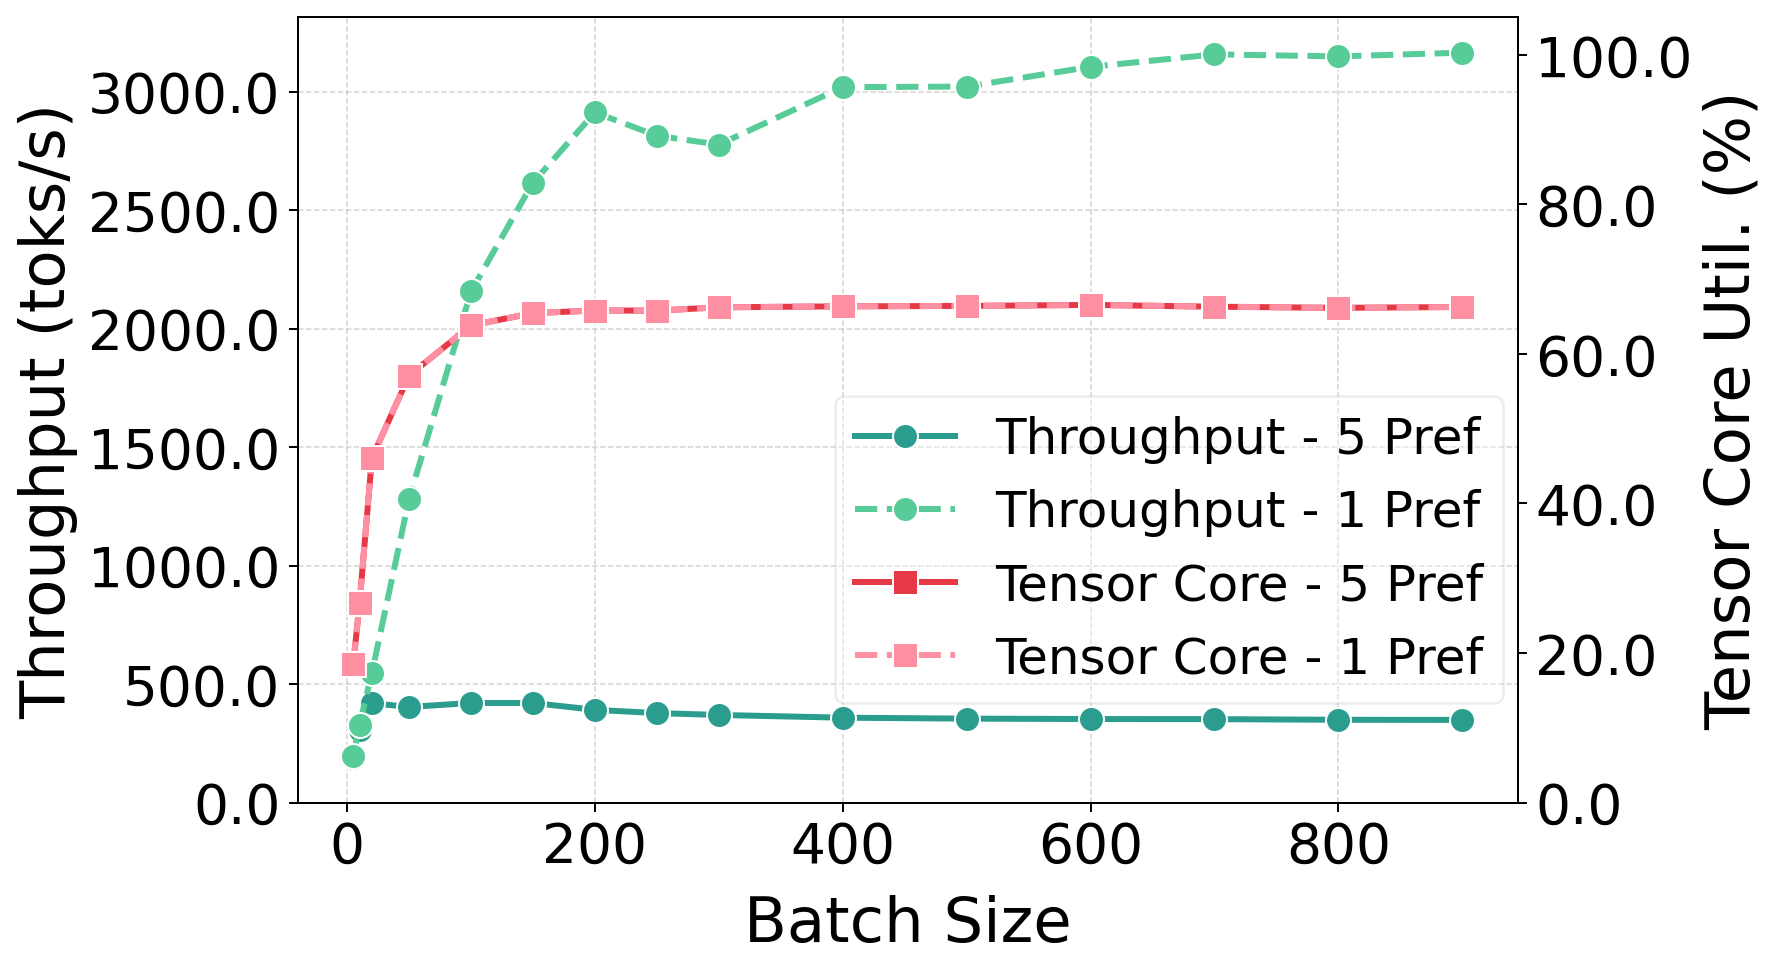
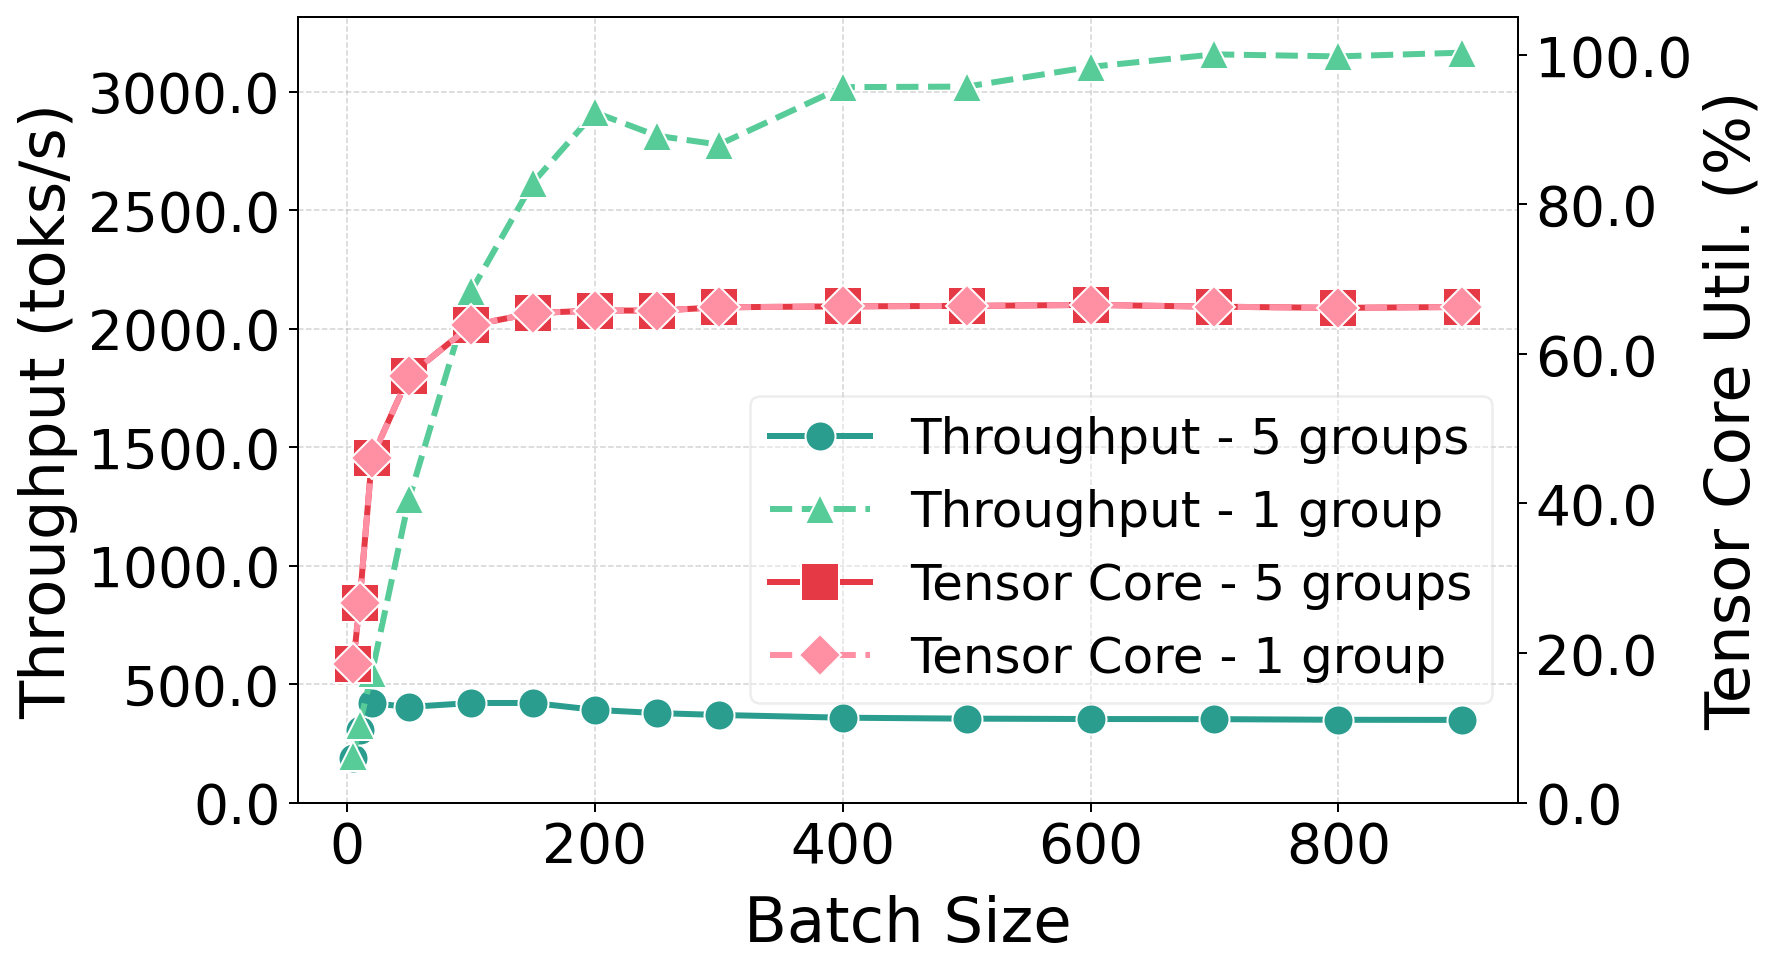
homo

diff --git a/code/vllm/batch_size_logs/plot_both.py b/code/vllm/batch_size_logs/plot_both.py
@@ -1,40 +1,3 @@
-"""
-plot_batch_size_merged.py
-=========================
-Reads dcgmi_*.log and vllm_*.log files from TWO directories:
-  - LOG_DIR_HETERO  (original / heterogeneous batch)
-  - LOG_DIR_HOMO    (homogeneous batch)
-
-Produces two publication-quality plots, each with 4 lines:
-
-  Plot 1  –  Throughput (toks/s)  [left, greens]  &  Tensor Core Util (%)  [right, reds]
-               · Hetero throughput  : solid green   (---)
-               · Homo   throughput  : dashed green  (- -)
-               · Hetero tensor util : solid red
-               · Homo   tensor util : dashed red
-
-  Plot 2  –  SM Activity (%)  [left, blues]  &  SM Occupancy (%)  [right, oranges]
-               · Hetero SM Activity  : solid blue
-               · Homo   SM Activity  : dashed blue
-               · Hetero SM Occupancy : solid orange
-               · Homo   SM Occupancy : dashed orange
-
-X-axis for both: batch size (extracted from filenames).
-
-JSON Cache:
-  Parsed data is saved to CACHE_FILE (default: data_cache.json).
-  On subsequent runs, values are loaded from the cache and log files are
-  only re-read for batch sizes / fields that are missing from the cache.
-
-File-name patterns expected:
-  dcgmi : dcgmi_vllm_..._batch-<B>_...
-  vllm  : vllm_<policy>_batch_size<B>_...
-
-Usage:
-  Edit LOG_DIR_HETERO / LOG_DIR_HOMO below, then:
-  python plot_batch_size_merged.py
-"""
-
 import os
 import re
 import json
@@ -67,8 +30,13 @@ C_SMACT_HOMO    = "#90C2FF"
 C_SMOCC_HETERO  = "#FB8500"
 C_SMOCC_HOMO    = "#FFD166"
 
-MARKER_LEFT  = "o"
-MARKER_RIGHT = "s"
+# Hetero and homo each get distinct marker shapes.
+# Left-axis metrics use the first marker, right-axis use the second.
+MARKER_HETERO_LEFT  = "o"   # hetero, left-axis  (throughput / SM Activity)
+MARKER_HETERO_RIGHT = "s"   # hetero, right-axis (tensor core / SM Occupancy)
+MARKER_HOMO_LEFT    = "^"   # homo,   left-axis
+MARKER_HOMO_RIGHT   = "D"   # homo,   right-axis
+
 LW = 2.4
 MS = 10
 
@@ -81,13 +49,6 @@ ALL_FIELDS = ("smact", "smocc", "tenso", "drama", "throughput")
 # ═════════════════════════════════════════════════════════════════════════════
 
 def load_cache(cache_path: str) -> dict:
-    """
-    Load cache from disk.  Returns a dict shaped:
-      { "hetero": { "<batch_size>": { field: value, ... }, ... },
-        "homo":   { "<batch_size>": { field: value, ... }, ... } }
-    Batch-size keys are stored as strings in JSON; we keep them as strings
-    here and convert to int only when building the data dicts.
-    """
     if os.path.isfile(cache_path):
         with open(cache_path) as fh:
             try:
@@ -107,7 +68,6 @@ def save_cache(cache: dict, cache_path: str) -> None:
 
 
 def _cache_has_all_fields(entry: dict) -> bool:
-    """Return True if every field in ALL_FIELDS is present and not None/NaN."""
     for f in ALL_FIELDS:
         val = entry.get(f)
         if val is None:
@@ -176,31 +136,16 @@ def collect_data(log_dir: str,
                  cache_section: dict,
                  throughput_cap=None,
                  label: str = "") -> dict:
-    """
-    Build a {batch_size: {field: value}} dict.
-
-    Strategy
-    --------
-    1. For every batch size already in *cache_section* that has ALL fields
-       present, skip reading log files and use the cached values directly.
-    2. For batch sizes (or fields) not yet cached, parse the relevant log
-       files and add the results to *cache_section* (mutates it in-place so
-       the caller can persist the updated cache).
-    """
-
-    # Accumulator for raw values from log files (needed when cache is partial)
     raw: dict = defaultdict(lambda: {
         "smact": [], "smocc": [], "tenso": [], "drama": [], "throughput": None
     })
 
-    # Determine which batch sizes we can skip (fully cached)
     cached_bs = set()
     for bs_str, entry in cache_section.items():
         if _cache_has_all_fields(entry):
             cached_bs.add(int(bs_str))
             print(f"[{label}/CACHE]  batch={int(bs_str):>4}  (all fields cached – skipping logs)")
 
-    # ── Parse log files only for uncached batch sizes ─────────────────────
     for fname in sorted(os.listdir(log_dir)):
         fpath = os.path.join(log_dir, fname)
 
@@ -210,7 +155,7 @@ def collect_data(log_dir: str,
                 print(f"[SKIP] cannot parse batch size: {fname}")
                 continue
             if bs in cached_bs:
-                continue          # already have it
+                continue
             print(f"[{label}/DCGMI]  batch={bs:>4}  ←  {fname}")
             gpu_stats = read_dcgmi(fpath)
             for key in ("smact", "smocc", "tenso", "drama"):
@@ -224,16 +169,14 @@ def collect_data(log_dir: str,
                 print(f"[SKIP] cannot parse batch size: {fname}")
                 continue
             if bs in cached_bs:
-                continue          # already have it
+                continue
             tput = read_throughput_from_vllm_log(fpath)
             print(f"[{label}/VLLM ]  batch={bs:>4}  throughput={tput}  ←  {fname}")
             if tput is not None:
                 raw[bs]["throughput"] = tput
 
-    # ── Merge: cached entries + freshly parsed entries ────────────────────
     result = {}
 
-    # 3a. Entries that came fully from cache
     for bs_str, entry in cache_section.items():
         bs = int(bs_str)
         if bs in cached_bs:
@@ -248,7 +191,6 @@ def collect_data(log_dir: str,
                 "throughput": tput,
             }
 
-    # 3b. Entries freshly parsed from log files
     for bs, rec in raw.items():
         tput = rec["throughput"]
         if tput is not None and throughput_cap is not None:
@@ -267,7 +209,6 @@ def collect_data(log_dir: str,
             "throughput": tput,
         }
 
-        # Write back to cache section (NaN → None for JSON serialisability)
         def _json_safe(v):
             return None if (isinstance(v, float) and np.isnan(v)) else v
 
@@ -287,10 +228,6 @@ def collect_data(log_dir: str,
 # ═════════════════════════════════════════════════════════════════════════════
 
 def apply_tenso_fallback(hetero: dict, homo: dict) -> None:
-    """
-    If one side is missing a 'tenso' value for a given batch size, fill it
-    in from the other side.  Mutates both dicts in-place and prints a notice.
-    """
     all_bs = set(hetero.keys()) | set(homo.keys())
     for bs in sorted(all_bs):
         h_val = hetero.get(bs, {}).get("tenso")
@@ -337,7 +274,7 @@ def _finish(fig, ax_l, ax_r, xlabel, ylabel_l, ylabel_r, outpath, legend_loc="be
         fontsize=20,
         framealpha=0.35,
         loc="upper left",
-        bbox_to_anchor=(0.42, 0.55)
+        bbox_to_anchor=(0.35, 0.55)
     )
 
     plt.tight_layout()
@@ -363,28 +300,28 @@ def _xy(data: dict, key: str):
 def plot_throughput_tensor(hetero: dict, homo: dict, out_dir: str) -> None:
     fig, ax_l, ax_r = _base_fig()
 
-    kw_base = dict(linewidth=LW, markersize=MS,
+    kw_base = dict(linewidth=LW,
                    markeredgecolor="white", markeredgewidth=0.8)
 
     xs, ys = _xy(hetero, "throughput")
-    ax_l.plot(xs, ys, color=C_TPUT_HETERO, marker=MARKER_LEFT,
-              linestyle="-",  label="Throughput - 5 Pref", **kw_base)
+    ax_l.plot(xs, ys, color=C_TPUT_HETERO, marker=MARKER_HETERO_LEFT,
+              linestyle="-",  label="Throughput - 5 groups", **kw_base, markersize=12)
 
     xs, ys = _xy(homo, "throughput")
-    ax_l.plot(xs, ys, color=C_TPUT_HOMO,   marker=MARKER_LEFT,
-              linestyle="--", label="Throughput - 1 Pref",   **kw_base)
+    ax_l.plot(xs, ys, color=C_TPUT_HOMO,   marker=MARKER_HOMO_LEFT,
+              linestyle="--", label="Throughput - 1 group",   **kw_base, markersize=12)
 
     ax_l.set_ylim(bottom=0)
     ax_l.yaxis.set_major_formatter(ticker.FormatStrFormatter("%.1f"))
     ax_l.xaxis.set_major_locator(ticker.MaxNLocator(nbins=6, integer=True))
 
     xs, ys = _xy(hetero, "tenso")
-    ax_r.plot(xs, ys, color=C_TENSO_HETERO, marker=MARKER_RIGHT,
-              linestyle="-",  label="Tensor Core - 5 Pref", **kw_base)
+    ax_r.plot(xs, ys, color=C_TENSO_HETERO, marker=MARKER_HETERO_RIGHT,
+              linestyle="-",  label="Tensor Core - 5 groups", **kw_base, markersize=15)
 
     xs, ys = _xy(homo, "tenso")
-    ax_r.plot(xs, ys, color=C_TENSO_HOMO,   marker=MARKER_RIGHT,
-              linestyle="--", label="Tensor Core - 1 Pref",   **kw_base)
+    ax_r.plot(xs, ys, color=C_TENSO_HOMO,   marker=MARKER_HOMO_RIGHT,
+              linestyle="--", label="Tensor Core - 1 group",   **kw_base, markersize=12)
 
     ax_r.set_ylim(0, 105)
     ax_r.yaxis.set_major_formatter(ticker.FormatStrFormatter("%.1f"))
@@ -394,7 +331,6 @@ def plot_throughput_tensor(hetero: dict, homo: dict, out_dir: str) -> None:
             ylabel_l = "Throughput (toks/s)",
             ylabel_r = "Tensor Core Util. (%)",
             outpath  = os.path.join(out_dir, "plot1_throughput_tensor_merged.png"),
-            # legend_loc = "lower right"
         )
 
 
@@ -409,11 +345,11 @@ def plot_sm_activity_occupancy(hetero: dict, homo: dict, out_dir: str) -> None:
                    markeredgecolor="white", markeredgewidth=0.8)
 
     xs, ys = _xy(hetero, "smact")
-    ax_l.plot(xs, ys, color=C_SMACT_HETERO, marker=MARKER_LEFT,
+    ax_l.plot(xs, ys, color=C_SMACT_HETERO, marker=MARKER_HETERO_LEFT,
               linestyle="-",  label="SM Activity – Hetero", **kw_base)
 
     xs, ys = _xy(homo, "smact")
-    ax_l.plot(xs, ys, color=C_SMACT_HOMO,   marker=MARKER_LEFT,
+    ax_l.plot(xs, ys, color=C_SMACT_HOMO,   marker=MARKER_HOMO_LEFT,
               linestyle="--", label="SM Activity – Homo",   **kw_base)
 
     ax_l.set_ylim(0, 105)
@@ -424,11 +360,11 @@ def plot_sm_activity_occupancy(hetero: dict, homo: dict, out_dir: str) -> None:
     ax_l.set_xticklabels([str(b) for b in all_bs])
 
     xs, ys = _xy(hetero, "smocc")
-    ax_r.plot(xs, ys, color=C_SMOCC_HETERO, marker=MARKER_RIGHT,
+    ax_r.plot(xs, ys, color=C_SMOCC_HETERO, marker=MARKER_HETERO_RIGHT,
               linestyle="-",  label="SM Occupancy – Hetero", **kw_base)
 
     xs, ys = _xy(homo, "smocc")
-    ax_r.plot(xs, ys, color=C_SMOCC_HOMO,   marker=MARKER_RIGHT,
+    ax_r.plot(xs, ys, color=C_SMOCC_HOMO,   marker=MARKER_HOMO_RIGHT,
               linestyle="--", label="SM Occupancy – Homo",   **kw_base)
 
     ax_r.set_ylim(0, 105)
@@ -439,7 +375,8 @@ def plot_sm_activity_occupancy(hetero: dict, homo: dict, out_dir: str) -> None:
             ylabel_l = "SM Activity (%)",
             ylabel_r = "SM Occupancy (%)",
             outpath  = os.path.join(out_dir, "plot2_sm_activity_occupancy_merged.png"),
-            legend_loc = "center right")
+            # legend_loc = "center right"
+        )
 
 
 # ═════════════════════════════════════════════════════════════════════════════
@@ -458,12 +395,10 @@ def _print_summary(data: dict, label: str):
 def main():
     os.makedirs(OUT_DIR, exist_ok=True)
 
-    # ── Load cache ────────────────────────────────────────────────────────
     cache = load_cache(CACHE_FILE)
     cache.setdefault("hetero", {})
     cache.setdefault("homo",   {})
 
-    # ── Collect data (reads logs only for what's missing from cache) ──────
     print("=== Collecting HETERO data ===")
     hetero = collect_data(LOG_DIR_HETERO,
                           cache_section=cache["hetero"],
@@ -480,10 +415,8 @@ def main():
         print("No data found — check LOG_DIR_HETERO / LOG_DIR_HOMO.")
         return
 
-    # ── Persist updated cache ─────────────────────────────────────────────
     save_cache(cache, CACHE_FILE)
 
-    # ── Tensor-core fallback: fill missing tenso from the other side ──────
     print("\n=== Applying tenso fallback ===")
     apply_tenso_fallback(hetero, homo)
 

diff --git a/code/vllm/batch_size_logs/plot.py b/code/vllm/batch_size_logs/plot.py
@@ -1,22 +1,3 @@
-"""
-plot_batch_size.py
-==================
-Reads dcgmi_*.log files and vllm_*.log files from the current directory,
-then produces two publication-quality plots:
-
-  Plot 1  –  Throughput (req/s)  vs  Tensor Core Utilization (%)   [dual y-axis]
-  Plot 2  –  SM Activity (%)     vs  SM Occupancy (%)               [dual y-axis]
-
-X-axis for both: batch size  (extracted from the filename).
-
-File-name patterns expected:
-  dcgmi  : dcgmi_vllm_..._batch-<B>_..._sptokens-<S>_policy-<P>_...
-  vllm   : vllm_<policy>_batch_size<B>_req<R>_tok<T>_fam<F>_sys<S>_<timestamp>.log
-
-Usage:
-  python plot_batch_size.py            # runs in current working directory
-"""
-
 import os
 import re
 import numpy as np

diff --git a/code/vllm/homo_batch_size_logs/plot.py b/code/vllm/homo_batch_size_logs/plot.py
@@ -1,22 +1,3 @@
-"""
-plot_batch_size.py
-==================
-Reads dcgmi_*.log files and vllm_*.log files from the current directory,
-then produces two publication-quality plots:
-
-  Plot 1  –  Throughput (req/s)  vs  Tensor Core Utilization (%)   [dual y-axis]
-  Plot 2  –  SM Activity (%)     vs  SM Occupancy (%)               [dual y-axis]
-
-X-axis for both: batch size  (extracted from the filename).
-
-File-name patterns expected:
-  dcgmi  : dcgmi_vllm_..._batch-<B>_..._sptokens-<S>_policy-<P>_...
-  vllm   : vllm_<policy>_batch_size<B>_req<R>_tok<T>_fam<F>_sys<S>_<timestamp>.log
-
-Usage:
-  python plot_batch_size.py            # runs in current working directory
-"""
-
 import os
 import re
 import numpy as np
